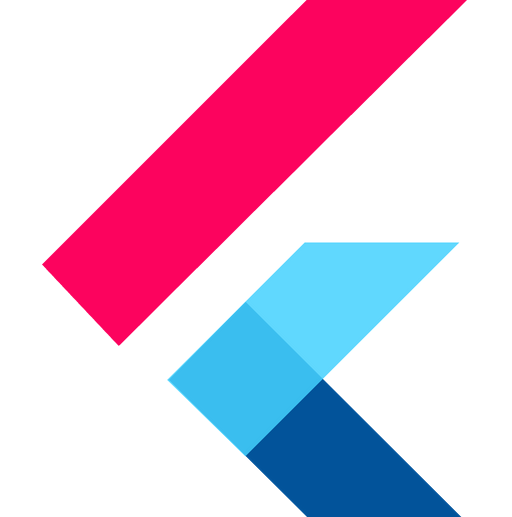
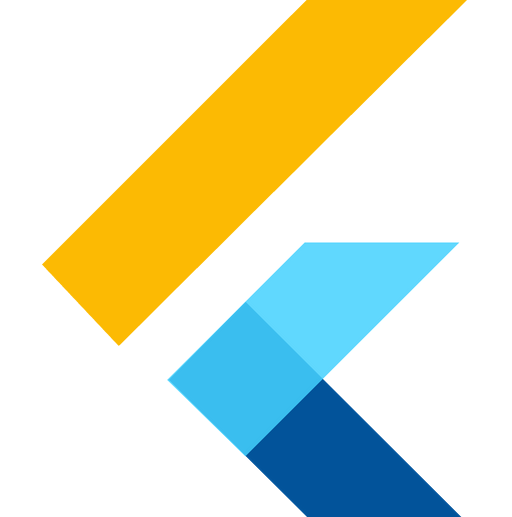
Added await and switch command

Changed region(s): [[0.0625, 0.0, 0.9062, 0.6809]]

diff --git a/lib/commands/impl/switch/switch.dart b/lib/commands/impl/switch/switch.dart
@@ -5,14 +5,17 @@ import 'package:flutter_multitenancy/core/generator.dart';
 import 'package:flutter_multitenancy/functions/build/copy_files.dart';
 import 'package:flutter_multitenancy/functions/build/run_flag.dart';
 
-class BuildAppbundleCommand extends BuildCommand {
+class SwitchTenantCommand extends BuildCommand {
   @override
-  String get commandName => 'appbundle';
+  String get commandName => 'switch';
+
+  @override
+  List<String> get alias => ['sw'];
 
   @override
   Future<void> execute() async {
     var args = List<String>.from(FlutterMultitenancy.arguments);
-    args.removeRange(0, 2);
+    args.removeAt(0);
     var tenants = args.where((element) => !element.startsWith('-')).toList();
     var buildFlags =
         flags.where((flag) => acceptedFlags.contains(flag)).toList();
@@ -27,19 +30,15 @@ class BuildAppbundleCommand extends BuildCommand {
           await runFlag(flag);
         });
       }
-      LogService.info('Building "$tenantName" $commandName …');
-      await ShellUtils.build(commandName);
     } else {
       for (var element in tenants) {
         var tenantName = element;
         LogService.info('Copying tenant "$tenantName" files …');
         await copyFiles(tenantName);
         await ShellUtils.pubGet();
-        buildFlags.forEach((flag) async {
-          await runFlag(flag);
+        buildFlags.forEach((flag) {
+          runFlag(flag);
         });
-        LogService.info('Building "$tenantName" $commandName …');
-        await ShellUtils.build(commandName);
       }
     }
   }

diff --git a/lib/commands/impl/build/ios.dart b/lib/commands/impl/build/ios.dart
@@ -23,8 +23,8 @@ class BuildIosCommand extends BuildCommand {
       await copyFiles(tenantName);
       await ShellUtils.pubGet();
       if (buildFlags.isEmpty) {
-        buildFlags.forEach((flag) {
-          runFlag(flag);
+        buildFlags.forEach((flag) async {
+          await runFlag(flag);
         });
       }
       LogService.info('Building "$tenantName" $commandName …');
@@ -35,8 +35,8 @@ class BuildIosCommand extends BuildCommand {
         LogService.info('Copying tenant "$tenantName" files …');
         await copyFiles(tenantName);
         await ShellUtils.pubGet();
-        buildFlags.forEach((flag) {
-          runFlag(flag);
+        buildFlags.forEach((flag) async {
+          await runFlag(flag);
         });
         LogService.info('Building "$tenantName" $commandName …');
         await ShellUtils.build(commandName);

diff --git a/lib/commands/impl/build/apk.dart b/lib/commands/impl/build/apk.dart
@@ -23,8 +23,8 @@ class BuildApkCommand extends BuildCommand {
       await copyFiles(tenantName);
       await ShellUtils.pubGet();
       if (buildFlags.isEmpty) {
-        buildFlags.forEach((flag) {
-          runFlag(flag);
+        buildFlags.forEach((flag) async {
+          await runFlag(flag);
         });
       }
       LogService.info('Building "$tenantName" $commandName …');

diff --git a/lib/commands/impl/commads_export.dart b/lib/commands/impl/commads_export.dart
@@ -2,5 +2,6 @@ export 'build/apk.dart';
 export 'build/app_bundle.dart';
 export 'build/ios.dart';
 export 'help/help.dart';
+export 'switch/switch.dart';
 export 'update/update.dart';
 export 'version/version.dart';

diff --git a/example/lib/configs.dart b/example/lib/configs.dart
@@ -1,4 +1,4 @@
 class Configs {
-  static const APP_NAME = "Tenant 2";
-  static const PRIMARY_COLOR = "#fc035e";
+  static const APP_NAME = "Tenant 1";
+  static const PRIMARY_COLOR = "#fcba03";
 }

diff --git a/lib/commands/commands_list.dart b/lib/commands/commands_list.dart
@@ -14,6 +14,7 @@ final List<Command> commands = [
     ],
     ['b'],
   ),
+  SwitchTenantCommand(),
   HelpCommand(),
   VersionCommand(),
   UpdateCommand(),
